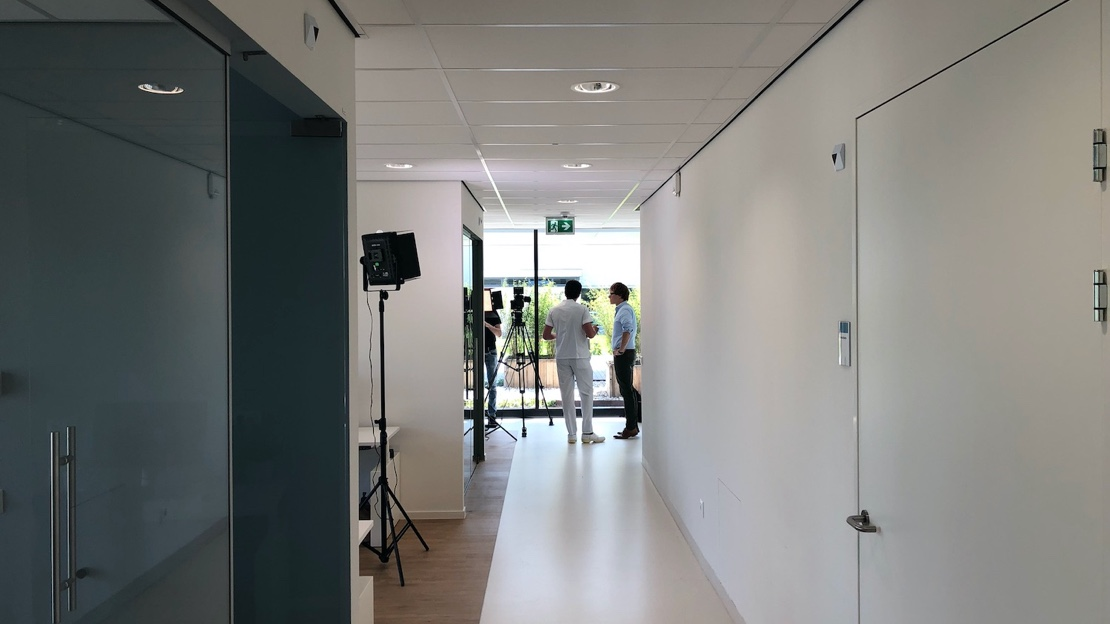
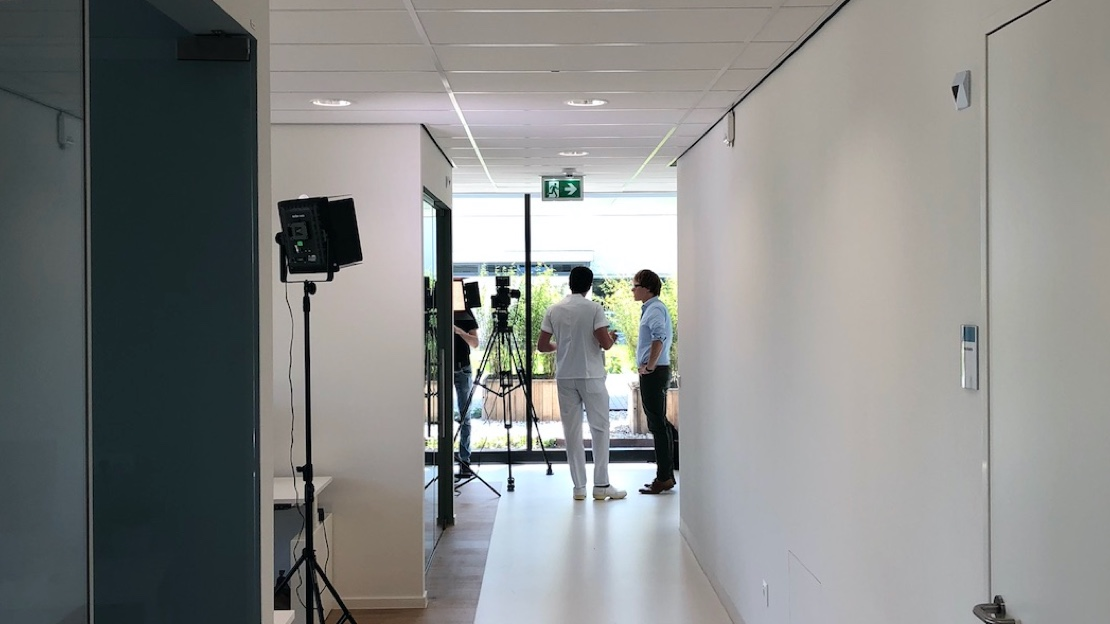
new photos

diff --git a/content/vacancies/backend.html b/content/vacancies/backend.html
@@ -27,7 +27,7 @@ menu:
 
       <div class="col">
         <!-- <img src="/photos/phone-residents.jpg"/> -->
-        <img src="/photos/phone-formularium.jpg"/>
+        <img src="/photos/doctors.jpg"/>
       </div>
 
     </div>

diff --git a/layouts/shortcodes/vacancy-salary-section.html b/layouts/shortcodes/vacancy-salary-section.html
@@ -47,7 +47,7 @@
     </div>
 
     <div class="col">
-      <img src="/photos/movie.jpg"/>
+      <img src="/photos/team2.jpg"/>
     </div>
 
   </div>
